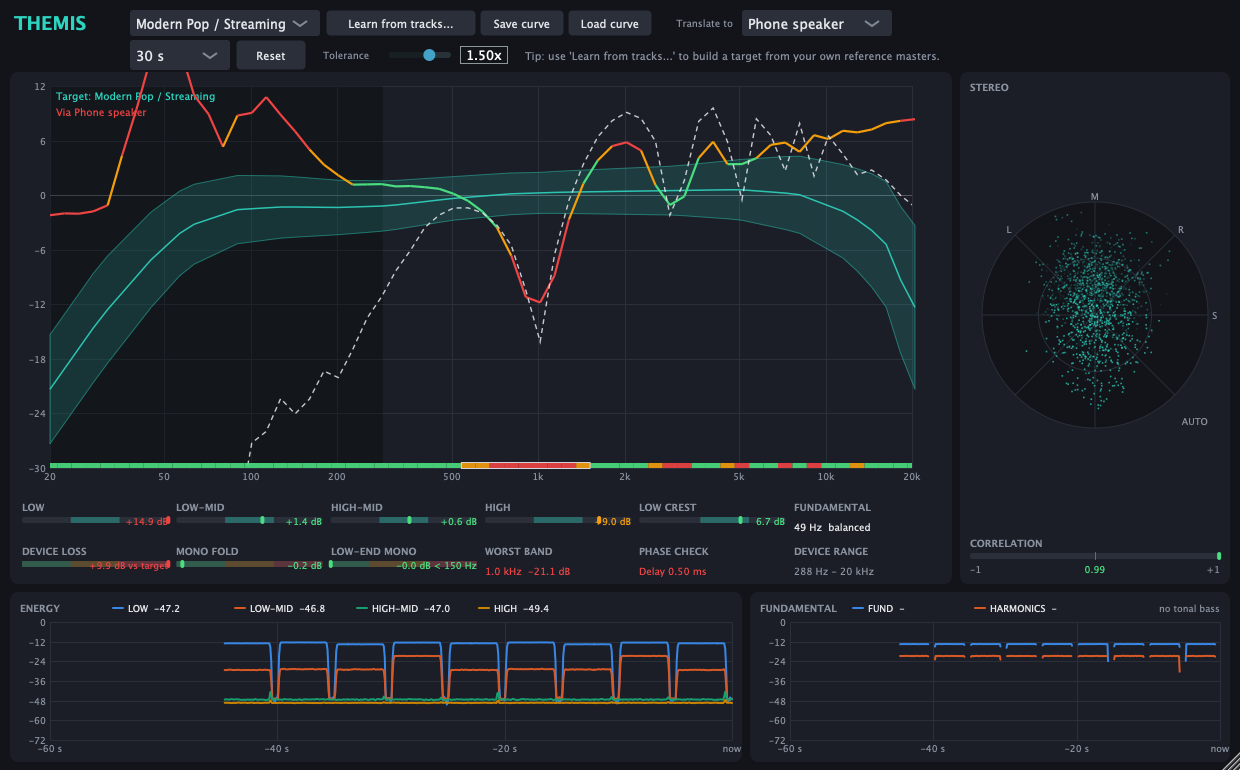
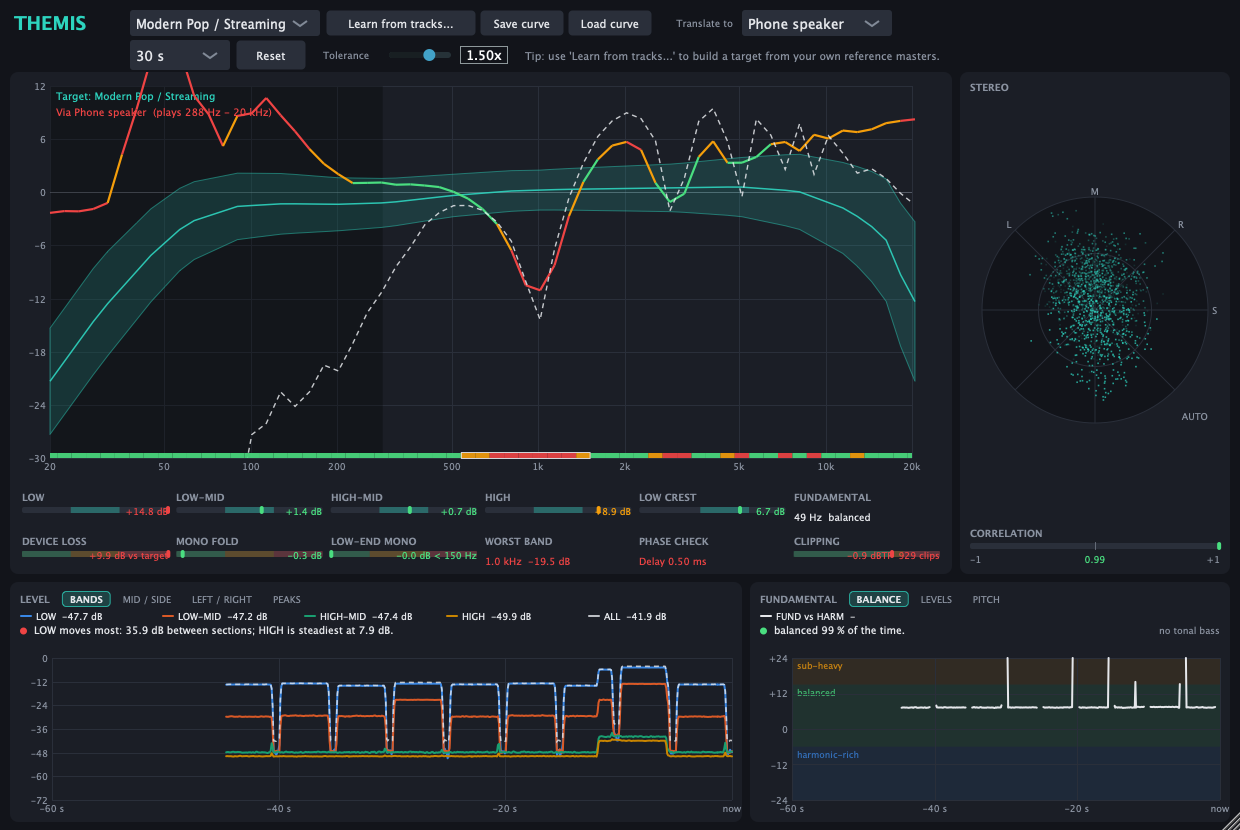
Document clipping and the tabbed graphs; refresh the screenshots

diff --git a/plugins/themis/CLAUDE.md b/plugins/themis/CLAUDE.md
@@ -4,14 +4,14 @@ This file provides guidance to Claude Code (claude.ai/code) when working with co
 
 ## What this is
 
-Themis: a mastering check suite in one plugin (VST3 + AU, Standalone) built on JUCE 8.0.6, in the style of iZotope Tonal Balance Control: tonal balance against a reference curve, device translation, mono fold / phase cancellation, stereo correlation, low-end dynamics (crest), bass fundamental, energy over time. Targets FL Studio on macOS (universal arm64 + x86_64, macOS 11+). See [README.md](README.md) for the feature list and the "verified / not verified" table.
+Themis: a mastering check suite in one plugin (VST3 + AU, Standalone) built on JUCE 8.0.6, in the style of iZotope Tonal Balance Control: tonal balance against a reference curve, device translation, mono fold / phase cancellation, stereo correlation, low-end dynamics (crest), clipping / true peak, bass fundamental, energy over time (bands, mid/side, left/right). Targets FL Studio on macOS (universal arm64 + x86_64, macOS 11+). See [README.md](README.md) for the feature list and the "verified / not verified" table.
 
 ## Core principles (apply to every change)
 
 - **Clean and transparent: monitoring and decisions only.** Themis never alters the audio: no EQ, dynamics, limiter, gain or dither, bit-exact pass-through, zero latency. A feature belongs here if it helps the user *judge* a master (a measurement, a verdict, a graph); it does not belong if it *processes* the signal. The full mastering chain left in `core/` is not used by the plugin and must stay that way.
 - **Everything a mastering check needs, in one place.** New checks should read from the shared analysis (one FFT, one grid) and surface as a readout, a graph or an overlay in the existing editor, with a tooltip explaining the numbers. Say plainly in the UI/README when a limit is a rule of thumb rather than measured data.
-- **Always update the screenshot after any update.** After any change that touches the UI or what it displays, regenerate [docs/screenshot.png](docs/screenshot.png) with the `ThemisSmoke` command below (pass `docs/screenshot.png`) and look at it. If a feature has no visible trace in the demo programme (`runDemoProgramme` in [tests/plugin_smoke.cpp](tests/plugin_smoke.cpp)), extend the programme so it does, and keep the README caption true to what the picture shows.
-- **DRY.** Look for the existing helper before writing logic: [Common.h](core/include/themis/Common.h), `translation::classify`, `kEnergyRanges`, `FrameStats::forEachField`, `ui::MeterCell`, `ui::HistoryPanel`, `colours::forLevel`, the test helpers (`analyseWhole`, `runBlocks`). If a second copy of a constant, threshold, formula, label or drawing routine appears, move it to the one place that owns it and use it from both.
+- **Always update the screenshot after any update.** After any change that touches the UI or what it displays, regenerate [docs/screenshot.png](docs/screenshot.png) and [docs/graphs.png](docs/graphs.png) (every tab of the two history graphs) with the `ThemisSmoke` command below (pass both paths) and look at them. If a feature has no visible trace in the demo programme (`runDemoProgramme` in [tests/plugin_smoke.cpp](tests/plugin_smoke.cpp)), extend the programme so it does, and keep the README caption true to what the picture shows.
+- **DRY.** Look for the existing helper before writing logic: [Common.h](core/include/themis/Common.h), `translation::classify`, `kEnergyRanges`, `FrameStats::forEachField`, the `history::` verdicts ([HistoryChecks.h](core/include/themis/HistoryChecks.h), the one place that decides what a graph's verdict line says), `ui::signedDb`/`ui::hzText`, `ui::MeterCell`, `ui::HistoryPanel`, `colours::forLevel`, the test helpers (`analyseWhole`, `runBlocks`). If a second copy of a constant, threshold, formula, label or drawing routine appears, move it to the one place that owns it and use it from both.
 
 ## Commands
 
@@ -25,7 +25,7 @@ cmake --build build --target Themis_VST3 Themis_AU -j8   # Themis_AU is macOS on
 
 # Headless JUCE smoke test (real processor + editor, no host/display); writes a UI screenshot
 cmake -S . -B build -DCMAKE_BUILD_TYPE=Release -DTHEMIS_BUILD_SMOKE=ON && cmake --build build --target ThemisSmoke
-./build/ThemisSmoke_artefacts/Release/ThemisSmoke docs/screenshot.png   # the README screenshot: regenerate after every UI-visible change
+./build/ThemisSmoke_artefacts/Release/ThemisSmoke docs/screenshot.png docs/graphs.png   # the README images: regenerate after every UI-visible change
 ```
 
 - On macOS the plugin build **copies the plugins into `~/Library/Audio/Plug-Ins/{VST3,Components}`** by default (`THEMIS_INSTALL_AFTER_BUILD`, default `${APPLE}`). Pass `-DTHEMIS_INSTALL_AFTER_BUILD=OFF` to avoid touching those folders. Apple Silicon needs an ad-hoc `codesign --force --deep --sign -` on the result (see README).
@@ -38,19 +38,21 @@ cmake -S . -B build -DCMAKE_BUILD_TYPE=Release -DTHEMIS_BUILD_SMOKE=ON && cmake 
 
 Two layers with a hard dependency direction: `plugin/` → `core/`, never the reverse.
 
-**`core/include/themis/` — header-only, dependency-free C++17 DSP** (no JUCE types). The plugin only uses [TonalAnalyzer.h](core/include/themis/TonalAnalyzer.h), [TargetCurve.h](core/include/themis/TargetCurve.h), [Translation.h](core/include/themis/Translation.h) (generic `DeviceProfile` responses + `analyseTranslation`: device loss vs the target, mono loss, with hand-authored traffic-light limits in `translation::`; pure functions, analysis only), [LowCrestMeter.h](core/include/themis/LowCrestMeter.h) (20–250 Hz crest factor; runs a few biquads on the audio thread, publishes via atomics) and [StereoScope.h](core/include/themis/StereoScope.h) (vectorscope ring + smoothed L/R correlation, written by `push()` on the audio thread; fixed-size ring so readers never see a reallocation). The rest ([Engine.h](core/include/themis/Engine.h), EQ, compressor, limiter, loudness, EqFit…) is a full mastering chain that the plugin **no longer uses** but that is kept, with its tests, in `core/`.
+**`core/include/themis/` — header-only, dependency-free C++17 DSP** (no JUCE types). The plugin only uses [TonalAnalyzer.h](core/include/themis/TonalAnalyzer.h), [TargetCurve.h](core/include/themis/TargetCurve.h), [Translation.h](core/include/themis/Translation.h) (generic `DeviceProfile` responses + `analyseTranslation`: device loss vs the target, mono loss, with hand-authored traffic-light limits in `translation::`; pure functions, analysis only), [LowCrestMeter.h](core/include/themis/LowCrestMeter.h) (20–250 Hz crest factor; runs a few biquads on the audio thread, publishes via atomics), [ClipMeter.h](core/include/themis/ClipMeter.h) + [HistoryChecks.h](core/include/themis/HistoryChecks.h) (see below) and [StereoScope.h](core/include/themis/StereoScope.h) (vectorscope ring + smoothed L/R correlation, written by `push()` on the audio thread; fixed-size ring so readers never see a reallocation). The rest ([Engine.h](core/include/themis/Engine.h), EQ, compressor, limiter, loudness, EqFit…) is a full mastering chain that the plugin **no longer uses** but that is kept, with its tests, in `core/`.
 
 - **One place for shared logic (keep it DRY):** [Common.h](core/include/themis/Common.h) owns the dB/power conversions (`dbToPower`, `powerToDb`, `kPowerFloor`), mid/side (`midOf`/`sideOf`), the averaging maths (`emaWeight` + `runningMeanWeight`, "cumulative mean until the EMA catches up") and `kDefaultAveragingSeconds`; `smoothBands` lives next to `normaliseAnchor` in TonalAnalyzer.h; `translation::classify`/`toleranceLevel` are the only traffic-light thresholds. Use these instead of re-deriving them inline. In the plugin, [Parameters.h](plugin/Source/Parameters.h) holds every choice table (`avgTimes`, `customTargetIndex()`, `deviceForChoice()`, defaults), and the display code shares fonts (`ui::font`), `colours::forLevel` and the meter geometry ([MeterCell.h](plugin/Source/MeterCell.h)).
-- **Phase, energy and fundamental (all fed by the same analyser frames, no extra FFT):** `analyseFrame` takes the *complex* mid and side spectra, so besides the tonal curve and mono fold it averages the per-band cross-spectrum (`foldCrossRe/Im`) and publishes `PhaseBands` (`readPhase`: correlation = (M−S)/(M+S), coherence, `arg(L R*)`, and a mid+side `levelDb` that exists even for a pure-side signal). [PhaseCancellation.h](core/include/themis/PhaseCancellation.h) `analysePhase` is a pure function on that: it flags bands with the mono-fold strip's own limits (`translation::kBandMonoWarnDb/BadDb`), takes the widest run of ≥ 2 bands, and fits `phase = -2πfτ` / `π - 2πfτ` to the coherent bands < 4 kHz to call polarity flip vs delay (notch = 1/(2τ)). Every non-silent frame also pushes a `FrameStats` (absolute mean-square dBFS per `kEnergyRanges` range from mid+side band energies, scaled by 2/fftSize, plus `estimateFundamental` on the mid spectrum, see [Fundamental.h](core/include/themis/Fundamental.h)) into the fixed-size atomic ring [FrameHistory.h](core/include/themis/FrameHistory.h), which the UI graphs read (`ThemisProcessor::frameHistory()`). Energy/fundamental levels are deliberately *absolute*, unlike the tonal curve; digital-silence frames push `kHistoryFloorDb`. `kEnergyRanges` is the single definition of LOW/LOW-MID/HIGH-MID/HIGH for both the readouts and the graph. The fundamental thresholds in `fundamental::` are tuned on synthetic tones only.
+- **Phase, energy and fundamental (all fed by the same analyser frames, no extra FFT):** `analyseFrame` takes the *complex* mid and side spectra, so besides the tonal curve and mono fold it averages the per-band cross-spectrum (`foldCrossRe/Im`) and publishes `PhaseBands` (`readPhase`: correlation = (M−S)/(M+S), coherence, `arg(L R*)`, and a mid+side `levelDb` that exists even for a pure-side signal). [PhaseCancellation.h](core/include/themis/PhaseCancellation.h) `analysePhase` is a pure function on that: it flags bands with the mono-fold strip's own limits (`translation::kBandMonoWarnDb/BadDb`), takes the widest run of ≥ 2 bands, and fits `phase = -2πfτ` / `π - 2πfτ` to the coherent bands < 4 kHz to call polarity flip vs delay (notch = 1/(2τ)). Every frame also pushes a `FrameStats`: absolute mean-square dBFS of five `Signal`s (stereo = mid+side, mid, side, left, right) in each `kEnergyRanges` range plus a whole-spectrum column (`kAllRanges`), from the per-band mid/side/cross-spectrum energies (L/R power = M+S ± 2 Re(M S*)), scaled by 2/fftSize; `estimateFundamental` on the mid spectrum (see [Fundamental.h](core/include/themis/Fundamental.h)); and the peaks / clips of the audio since the previous frame (below). It goes into the fixed-size atomic ring [FrameHistory.h](core/include/themis/FrameHistory.h), which the UI graphs read (`ThemisProcessor::frameHistory()`). Energy/fundamental levels are deliberately *absolute*, unlike the tonal curve; digital-silence frames push `kHistoryFloorDb` (they still carry the clip window). Adding a field to `FrameStats` means adding it to `forEachField` and `kFields` only. `kEnergyRanges` is the single definition of LOW/LOW-MID/HIGH-MID/HIGH for both the readouts and the graph. The fundamental thresholds in `fundamental::` are tuned on synthetic tones only.
+- **Clipping ([ClipMeter.h](core/include/themis/ClipMeter.h)):** owned by `TonalAnalyzer`, run by `push()` on the audio thread (a 4× `TruePeakDetector` per channel, ~0.6 % of a core at 48 kHz, no allocation). It reports sample peak, true peak, `over` samples (≥ 0 dBFS) and `clip` events = flat tops (≥ `kMinRun` equal samples ≥ −6 dBFS reached with a step ≥ `kEntryStep`; the entry step is what keeps a 16-bit-quantised loud bass sine from counting, see `clip_meter_does_not_mistake_a_quantised_bass_sine_for_clipping`). Cross-thread: window accumulators are atomics drained by `take()` in `analyseFrame` (so each history frame carries what happened since the previous one), totals since the reset are atomics read by `ClipTotals`; `requestReset` is applied by the next `push()` (the detector state belongs to the audio thread) and `totals().have` is false while it is pending. `prepareOffline` (learning from files) switches it off. `history::clip::level` is the one verdict (any clip/over bad; true peak > −1 dBTP warn, > 0 bad), used by the CLIPPING cell and the PEAKS tab.
+- **History verdicts ([HistoryChecks.h](core/include/themis/HistoryChecks.h)):** pure functions on a window of `FrameStats` (`analyseSwing`, `analyseWidth` (mono loss, reusing the `translation::` mono-fold limits per range), `analyseBalance`, `analysePeaks`, `analyseBass`), all with hand-authored limits and tested without a UI. The graphs only format their results.
 - **Level independence (TonalAnalyzer):** each frame's band energies are divided by that frame's total before they are averaged, and frames are gated *relative* to a running mean power (`kRelativeGateDb`; `kSilenceDb` only catches digital silence). Don't reintroduce an absolute dBFS gate or energy-weighted averaging; `tonal_analyzer_is_independent_of_level` and the two tests after it guard this.
 - **Mono fold (TonalAnalyzer):** `push()` also stores the side signal; each frame yields per-band mid and side power as shares of the frame's total (M+S), averaged like the tonal curve and published as `10 log10(M/(M+S))` (`readMonoFoldDb`, `hasMonoFoldData`). The silence/relative gates use the mean of L and R power (= M+S), not mid alone, so an out-of-phase signal is still measured; `hasData()` (tonal curve) stays false for a pure-side signal while `hasMonoFoldData()` does not.
 - **Shared analysis grid:** `BandGrid` in TonalAnalyzer.h (61 bands, 1/6-octave from 20 Hz) is the common representation for the analyzer and `TargetCurve` (built-ins, `fromTracks`, JSON `.themiscurve`). Curves are normalised to 0 dB mean over the 200 Hz–5 kHz anchor region (`normaliseAnchor`), so they express shape, not level.
-- Cross-thread: the audio thread only calls `TonalAnalyzer::push` (lock-free ring, no FFT). A plugin-owned worker thread (`ThemisProcessor::AnalysisThread`, started in `prepareToPlay`, stopped in `releaseResources`/destructor) calls `pump()` every ~15 ms to run the FFT and publish through atomics. `requestReset` is applied by the next `pump`. `process()` = `push` + `pump` for offline/tests; `prepare()` must never overlap with `push`/`pump`. `FFT.h` has a complex `FFT` and a `RealFFT` (half-size complex FFT) used by the analyzer. `LowCrestMeter` is the exception to "nothing but `push` on the audio thread": `processBlock` calls its `process()` directly (3 biquads/sample, no FFT, atomics out); `requestReset` is applied by the next `process()`, and `hasData()` already reports false while a reset is pending.
+- Cross-thread: the audio thread only calls `TonalAnalyzer::push` (lock-free ring, no FFT). A plugin-owned worker thread (`ThemisProcessor::AnalysisThread`, started in `prepareToPlay`, stopped in `releaseResources`/destructor) calls `pump()` every ~15 ms to run the FFT and publish through atomics. `requestReset` is applied by the next `pump`. `process()` = `push` + `pump` for offline/tests; `prepare()` must never overlap with `push`/`pump`. `FFT.h` has a complex `FFT` and a `RealFFT` (half-size complex FFT) used by the analyzer. `push()` also runs the clip meter (above). `LowCrestMeter` is the exception to "nothing but `push` on the audio thread": `processBlock` calls its `process()` directly (3 biquads/sample, no FFT, atomics out); `requestReset` is applied by the next `process()`, and `hasData()` already reports false while a reset is pending.
 
 **`plugin/Source/` — JUCE layer**
 - [Parameters.cpp/.h](plugin/Source/Parameters.cpp): four APVTS parameters (`target`, `tolerance`, `avgTime`, `device`; `device` = "Off" + the `DeviceProfile::builtIns()` names, so reordering those shifts saved sessions like the targets do); `params::Reader` caches the raw atomics.
 - [PluginProcessor.cpp](plugin/Source/PluginProcessor.cpp): `processBlock` only *reads* the buffer into one `TonalAnalyzer` (via `push`) and one `LowCrestMeter` (never writes it; latency stays 0). State = APVTS XML plus a `customCurve` property holding the target curve as JSON. "Learn from tracks" decodes files on a lazily-created `ThreadPool` job with an `alive` shared flag guarding the async callback against processor destruction. Keep the constructor and `prepareToPlay` light: FL Studio instantiates the plugin while scanning.
-- Editor (`PluginEditor`, `TonalBalanceView`, `HistoryViews.h` (`EnergyView`/`FundamentalView` over a shared `HistoryPanel`), `ThemisLookAndFeel`) is timer-driven and reads from the processor/atomics; it holds no DSP state.
+- Editor (`PluginEditor`, `TonalBalanceView`, `HistoryViews.h` (`LevelView`/`FundamentalView` over a shared tabbed `HistoryPanel`: each `Tab` is data (series, axis, shaded zones, verdict function, tooltip), the panel draws the tab row, range chips, clickable legend, verdict line and plot; a new graph is a new `Tab`), `ThemisLookAndFeel`) is timer-driven and reads from the processor/atomics; it holds no DSP state.
 - Built-in target names populate the `target` choice parameter, with "Custom" appended as the last index; reordering/adding built-ins in `TargetCurve::builtIns()` shifts that index and affects saved sessions.
 
 **Tests**

diff --git a/plugins/themis/README.md b/plugins/themis/README.md
@@ -2,8 +2,8 @@
 
 Themis is a **mastering check suite in one plugin** for FL Studio (and any VST3 / AU host), in the style of
 **iZotope Tonal Balance Control**: tonal balance against a reference curve, device translation, mono fold and phase
-cancellation, stereo correlation, low-end dynamics, bass fundamental and energy over time: what you need to look at
-before you call a master done.
+cancellation, stereo correlation, clipping and true peak, low-end dynamics, bass fundamental and energy over time: what you
+need to look at before you call a master done.
 
 It is **clean and transparent: for monitoring and decisions only.** It has no EQ, dynamics, limiter or gain stage; the
 audio passes through bit-for-bit unchanged with zero latency, so it is safe to leave on the master bus. Every readout is
@@ -16,7 +16,11 @@ there to inform a decision you make with your own tools.
 
 ![Themis](docs/screenshot.png)
 
-*Headless render of the editor measuring a synthetic programme: a four-note bass line over pink noise whose right channel is 0.5 ms late. PHASE CHECK reports the delay and outlines the comb-filter region (about 500 Hz–1.5 kHz) on the mono-fold strip, the FUNDAMENTAL readout and graph follow the bass, and the ENERGY graph shows the notes in LOW and LOW-MID. The tonal curve looks wild because the demo is not music. Regenerate with the command under "Develop".*
+*Headless render of the editor measuring a synthetic programme: a four-note bass line over pink noise whose right channel is 0.5 ms late and 1 dB quieter, with a loud "chorus" driven into a hard clipper at -1 dBFS. PHASE CHECK reports the delay and outlines the comb-filter region (about 500 Hz–1.5 kHz) on the mono-fold strip, CLIPPING is red with the clip count, the FUNDAMENTAL readout and the FUNDAMENTAL graph (BALANCE tab) follow the bass, and the LEVEL graph (BANDS tab) shows the notes in LOW and LOW-MID and the louder chorus. The tonal curve looks wild because the demo is not music. Regenerate with the command under "Develop".*
+
+![Every tab of the LEVEL and FUNDAMENTAL graphs](docs/graphs.png)
+
+*The same programme in every tab of the two graphs: LEVEL (BANDS, MID / SIDE on the LOW range, LEFT / RIGHT, PEAKS with the clipped frames in red) and FUNDAMENTAL (BALANCE, LEVELS, PITCH). Each tab ends in a traffic-light verdict line.*
 
 ## Features
 
@@ -25,7 +29,8 @@ there to inform a decision you make with your own tools.
 | **Tonal balance curve** | 1/6-octave long-term spectrum (20 Hz–20 kHz) vs a target *median ± tolerance* band. Segments turn green / amber / red as you leave the band. Four broadband readouts (Low / Low-Mid / High-Mid / High) show your average offset from target. A **Low Crest** meter (like TBC's Low End Crest Factor) shows the peak/RMS ratio of the 20–250 Hz band in dB: left = dynamic, right = compressed; its "typical" zone (6–10 dB) is a hand-authored guess. Averaging: 10 s / 30 s / 2 min / infinite; **Reset** restarts it. **The curve does not depend on loudness:** every analysed moment is normalised by its own total energy before averaging (so gain changes, and loud choruses vs quiet verses, don't move it), and near-silent moments are gated relative to the programme level rather than at a fixed dBFS. |
 | **Translation checks** | Analysis-only help for judging how a master will carry over to other playback systems. **Device preview:** pick *Translate to* → Phone speaker / Laptop / Earbuds / Bluetooth speaker / Car / Small monitors (or Off). The curve is redrawn as that device would reproduce it (dashed line) and the range it cannot reach is darkened. **DEVICE LOSS** is how much more level your track loses through the device than the target curve does (so a bass-heavy master reads high on a phone). **Mono fold** is measured per band from the same frames as the tonal curve (level independent): the strip under the curve colours each band green / amber / red by the power lost in a mono sum, and **MONO FOLD**, **LOW-END MONO** (< 150 Hz) and **WORST BAND** summarise it. Hover the readouts for the numbers. The device responses are generic approximations (a bass limit, a treble limit and a few broad bumps), not measurements of any product, and the green/amber/red limits are rules of thumb; both are defined in [Translation.h](core/include/themis/Translation.h). The audio is never filtered. |
 | **Phase-cancellation check** | **PHASE CHECK** catches stereo phase problems that a mono sum would turn into lost level. Per band, the left/right cross-spectrum is averaged like the tonal curve (so it follows the averaging time and is level independent): a band *cancels* when a mono sum loses more than the 3 dB that uncorrelated channels lose. The widest cancelling region is outlined on the mono-fold strip, and the verdict names the likely cause by fitting the inter-channel phase of the coherent bands with a pure model: **Polarity flipped** (one channel inverted), **Delay x ms** (a fixed offset, i.e. comb filtering, with the first notch frequency in the tooltip) or a frequency range when the phase is neither (stereo wideners, phase-shifting effects, a mixed source). Unlike the broadband correlation meter it says *where*, and it still works when the mid signal is silent. See [PhaseCancellation.h](core/include/themis/PhaseCancellation.h). |
-| **Energy and fundamental graphs** | Two scrolling graphs (last 60 s) under the tonal view. **ENERGY** is the absolute stereo energy (mid + side, mean-square dBFS) in the LOW / LOW-MID / HIGH-MID / HIGH ranges, so you see where the energy sits and how it moves with the arrangement (the tonal curve itself is level independent by design). **FUNDAMENTAL** tracks the bass fundamental (lowest tonal peak in 30–250 Hz of the mid signal, from the analyser's own FFT) and plots its level against the summed level of its harmonics 2–8, with the pitch and note name; the FUNDAMENTAL cell labels the balance *sub-heavy* / *balanced* / *harmonic-rich*. Hover a graph for the values at that moment. See [Fundamental.h](core/include/themis/Fundamental.h) and [FrameHistory.h](core/include/themis/FrameHistory.h). |
+| **Clipping detection** | **CLIPPING** (second readout row) is a true-peak meter since the last **Reset** with the clip count next to it. The audio is checked sample by sample: *sample peak*, *true peak* (4× oversampled inter-sample peak, dBTP), *over* (a sample at or above 0 dBFS) and *clips*, meaning flat tops: at least 4 equal samples in a row above −6 dBFS that the waveform ran into, which a hard clipper or an overdriven limiter leaves at any ceiling, not only at 0 dBFS. Any clip or over is red, a true peak above −1 dBTP is amber (lossy encoding can push it over) and above 0 dBTP red; those limits are rules of thumb. The **PEAKS** tab of the LEVEL graph shows *when* it happened, with the clipped frames as red columns. A synthesised square wave or a held level also looks like a flat top, and a clip that was smoothed afterwards (a soft clipper, a lowpass) leaves none to find. Audio thread cost: about 0.6 % of one core at 48 kHz. See [ClipMeter.h](core/include/themis/ClipMeter.h). |
+| **Level and fundamental graphs** | Two scrolling graphs (last 60 s) under the tonal view, each with **tabs**, a **legend that is also the readout** (click an entry to hide its line; hover for the values at that moment) and a **verdict line** that turns the window into a decision (green / amber / red; the limits are rules of thumb, see [HistoryChecks.h](core/include/themis/HistoryChecks.h)). **LEVEL** is absolute energy (mean-square dBFS, unlike the level-independent tonal curve): **BANDS** (LOW / LOW-MID / HIGH-MID / HIGH and the whole spectrum; the verdict names the range that moves most between sections, the low end holding steady being the point), **MID / SIDE** and **LEFT / RIGHT** (each with a RANGE selector, so you can check the low range alone: the verdict is the mono loss with the same limits as MONO FOLD for mid / side, and the level difference for left / right) and **PEAKS** (sample and true peak, shaded 0 dB and −1 dBTP zones, clipped frames in red). **FUNDAMENTAL** tracks the bass fundamental (lowest tonal peak in 30–250 Hz of the mid signal, from the analyser's own FFT): **BALANCE** plots how far it sits above its harmonics 2–8 on a track shaded *sub-heavy* / *balanced* / *harmonic-rich* (the verdict is where it sat most of the time), **LEVELS** the two levels and **PITCH** its note on a note axis with the region under 40 Hz that small speakers cannot play shaded (the verdict is the share of time spent there). See [Fundamental.h](core/include/themis/Fundamental.h) and [FrameHistory.h](core/include/themis/FrameHistory.h). |
 | **Stereo vectorscope** | Goniometer (mid vertical, side horizontal) of the last ~30 ms plus a phase-correlation meter (-1 out of phase … +1 mono, ~0.4 s smoothing). The plot auto-scales to the recent peak so it stays readable at any level; click it to switch to a fixed 0 dBFS scale. Display only; the audio is untouched. |
 | **Target curves** | 7 built-in starter curves (Flat, Modern Pop, Hip-Hop, EDM, Rock, Acoustic, Orchestral) **+ "Learn from tracks…"**: pick one or more reference masters (wav/aiff/flac/ogg everywhere; mp3/m4a where the OS decoder supports them, e.g. macOS) and Themis builds a target from their average, with the tolerance set by how much they disagree. Save/load as `.themiscurve`. |
 | **Pass-through** | Nothing is ever written to the audio: no EQ, dynamics, limiter or gain stage; reports 0 samples of latency. The plugin exists to measure, not to process. |
@@ -80,10 +85,10 @@ macOS runner, runs the DSP tests, and uploads the zips as artifacts (tag `v0.1.0
 make test                              # DSP unit tests, no dependencies (g++/clang++ only)
 cmake -S . -B build -DCMAKE_BUILD_TYPE=Release -DTHEMIS_BUILD_SMOKE=ON -DTHEMIS_INSTALL_AFTER_BUILD=OFF
 cmake --build build --target ThemisSmoke
-./build/ThemisSmoke_artefacts/Release/ThemisSmoke docs/screenshot.png   # headless processor+editor run, writes the README screenshot
+./build/ThemisSmoke_artefacts/Release/ThemisSmoke docs/screenshot.png docs/graphs.png   # headless processor+editor run, writes the README images
 ```
 
-Regenerate `docs/screenshot.png` after every change that touches the UI or what it shows, and update its caption if the demo
+Regenerate `docs/screenshot.png` and `docs/graphs.png` after every change that touches the UI or what it shows, and update its caption if the demo
 programme changes (see the principles in [CLAUDE.md](CLAUDE.md)).
 
 Layout:
@@ -91,9 +96,9 @@ Layout:
 ```
 core/include/themis/   DSP: Biquad, Eq, Compressor, Limiter, TruePeak, Loudness, StereoTools, FFT,
                        TonalAnalyzer, LowCrestMeter, StereoScope, TargetCurve, Translation, PhaseCancellation,
-                       Fundamental, FrameHistory, EqFit, Engine
+                       Fundamental, FrameHistory, ClipMeter, HistoryChecks, EqFit, Engine
                        (the plugin uses only TonalAnalyzer, LowCrestMeter, StereoScope, TargetCurve, Translation, PhaseCancellation,
-                       Fundamental and FrameHistory; the rest is a mastering chain kept with its tests)
+                       Fundamental, FrameHistory, ClipMeter, HistoryChecks and TruePeak; the rest is a mastering chain kept with its tests)
 plugin/Source/         JUCE layer: Parameters, PluginProcessor, PluginEditor, TonalBalanceView, StereoScopeView, HistoryViews
 tests/                 test_main.cpp (DSP), plugin_smoke.cpp (headless JUCE)
 ```
@@ -102,7 +107,7 @@ tests/                 test_main.cpp (DSP), plugin_smoke.cpp (headless JUCE)
 
 | Verified (Linux aarch64, JUCE 8.0.6) | Not yet verified |
 |---|---|
-| 1908 DSP checks: K-weighting vs the ITU coefficient table, −20 LUFS reference sine at 44.1/48/96 kHz, gating, inter-sample true peak, limiter ceiling, compressor curve, M/S EQ targeting, pink/white-noise spectral slopes, low-end crest meter (sine = 3 dB, band limiting, reset, NaN recovery), per-band mono fold (mono 0 dB, uncorrelated −3 dB, inverted → cancels, level independent), per-band phase / coherence, the phase-cancellation verdict (mono, uncorrelated, polarity flip, 0.5 and 1.25 ms delay with its notch frequency, a low-end-only flip), the energy history (calibrated against sines, silence, reset), the bass fundamental estimator (pitch, level and harmonics of synthetic bass notes, weak fundamental, noise rejection), device profiles and the translation report, target JSON round-trip, EQ-fit error reduction, engine latency/bypass/A-B | **A macOS build** (the CI workflow does this; the code has no platform-specific paths) |
+| 1986 DSP checks: K-weighting vs the ITU coefficient table, −20 LUFS reference sine at 44.1/48/96 kHz, gating, inter-sample true peak, limiter ceiling, compressor curve, M/S EQ targeting, pink/white-noise spectral slopes, low-end crest meter (sine = 3 dB, band limiting, reset, NaN recovery), per-band mono fold (mono 0 dB, uncorrelated −3 dB, inverted → cancels, level independent), per-band phase / coherence, the phase-cancellation verdict (mono, uncorrelated, polarity flip, 0.5 and 1.25 ms delay with its notch frequency, a low-end-only flip), the energy history (calibrated against sines, silence, reset; mid / side / left / right against centred, one-sided and inverted tones), clip detection (a hard clipper at −1 dBFS, clean sines, a 16-bit quantised bass sine that must not count, plateaus across blocks, inter-sample peaks, totals and reset) and the verdicts on the history (swing, width, balance, peaks, bass), the bass fundamental estimator (pitch, level and harmonics of synthetic bass notes, weak fundamental, noise rejection), device profiles and the translation report, target JSON round-trip, EQ-fit error reduction, engine latency/bypass/A-B | **A macOS build** (the CI workflow does this; the code has no platform-specific paths) |
 | Universal (arm64 + x86_64) VST3 + AU build on macOS, zero warnings in Themis' own sources; `auval` AU validation passes; the VST3 loads, instantiates, processes and opens its editor in a JUCE plugin host | Behaviour inside FL Studio's plugin scanner |
 | Headless run of the real processor + editor: audio, parameters, state save/restore incl. custom curve, *Learn from tracks* on a WAV, pass-through is bit-exact, resizing | Loading inside FL Studio, automation, whether the Low Crest "typical" zone suits real masters, and whether the generic device profiles and translation limits match real devices and masters |
 
@@ -113,7 +118,8 @@ tests/                 test_main.cpp (DSP), plugin_smoke.cpp (headless JUCE)
 - Stereo in / stereo out only.
 - **Fundamental tracking** is a spectral heuristic (lowest tonal peak in 30–250 Hz, harmonics counted only where they stand out of the spectrum) tuned and tested on synthetic tones, not on a library of real basses. A fundamental more than ~20 dB under its first harmonic is not told apart from a note that starts at the harmonic; on a full mix the "harmonics" level also contains whatever else sits at those frequencies, so it is most meaningful on a bass or 808 stem or a bass-led passage. The sub-heavy / harmonic-rich limits are rules of thumb.
 - **Phase check** is a long-term measurement (it follows the Averaging setting), so a short cancelling passage is diluted by the rest; use the vectorscope's correlation meter for the moment-to-moment view. The delay / polarity diagnosis fits a single inter-channel delay to bands up to 4 kHz and is a model, not proof: a mix of many sources with different offsets reports "other" with the affected range.
-- The analyser's FFT runs on a background thread, not the audio thread: `processBlock` only copies samples into a lock-free ring (a few µs). The Low Crest meter is the one exception: a few biquads per sample run in `processBlock`. If a bounce renders far faster than real time, the worker may skip frames; the long-term average is barely affected.
+- The analyser's FFT runs on a background thread, not the audio thread: `processBlock` only copies samples into a lock-free ring (a few µs). Two meters are the exception: the Low Crest meter (a few biquads per sample) and the clip meter (a 4× oversampler per channel) run in `processBlock`. If a bounce renders far faster than real time, the worker may skip frames; the long-term average is barely affected.
+- **Clip detection** is a heuristic on the waveform: flat tops are found by their shape (equal samples at a high level), so a synthesised square wave looks like clipping and a clip that was smoothed afterwards does not. True peak is a 4× oversampled estimate, not a certified BS.1770 meter. The limits (−1 / 0 dBTP, any clip) are rules of thumb.
 - No CLAP build yet (FL Studio can load it; add [clap-juce-extensions](https://github.com/free-audio/clap-juce-extensions)).
 - **Licence:** JUCE is AGPLv3 / commercial. Personal use is fine; if you distribute Themis you must either open-source it
   under AGPL or hold a JUCE commercial licence.
